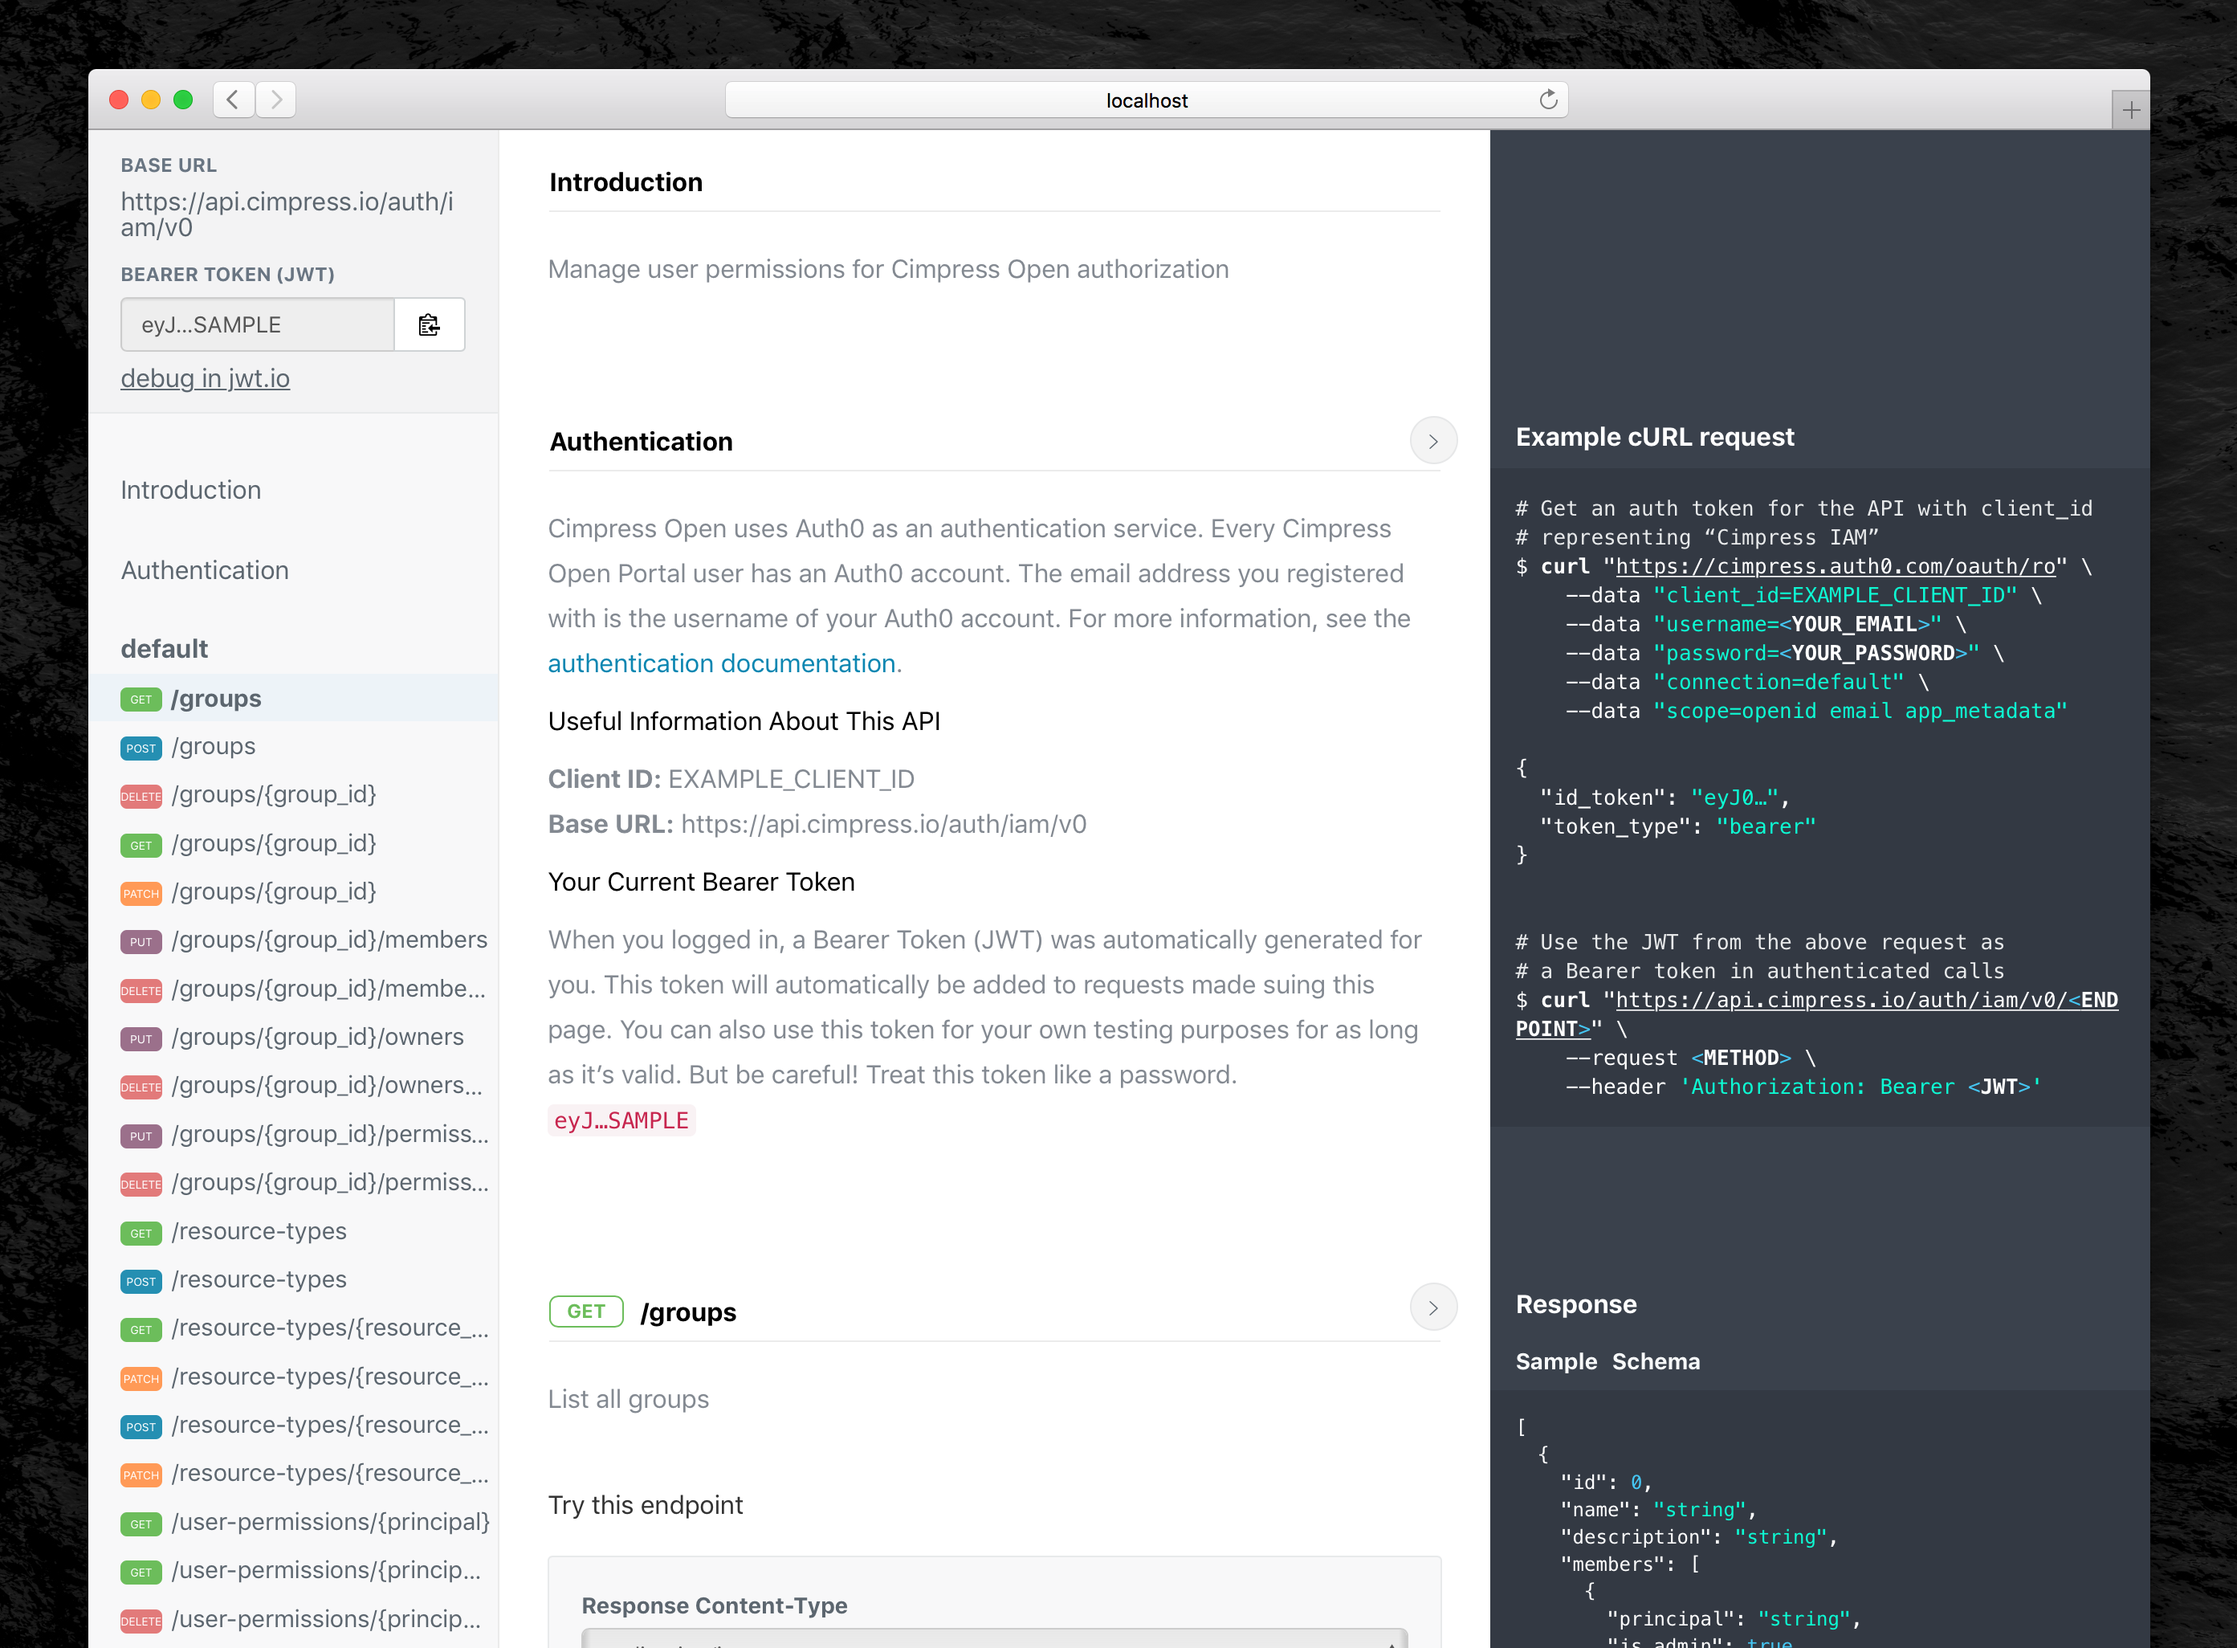
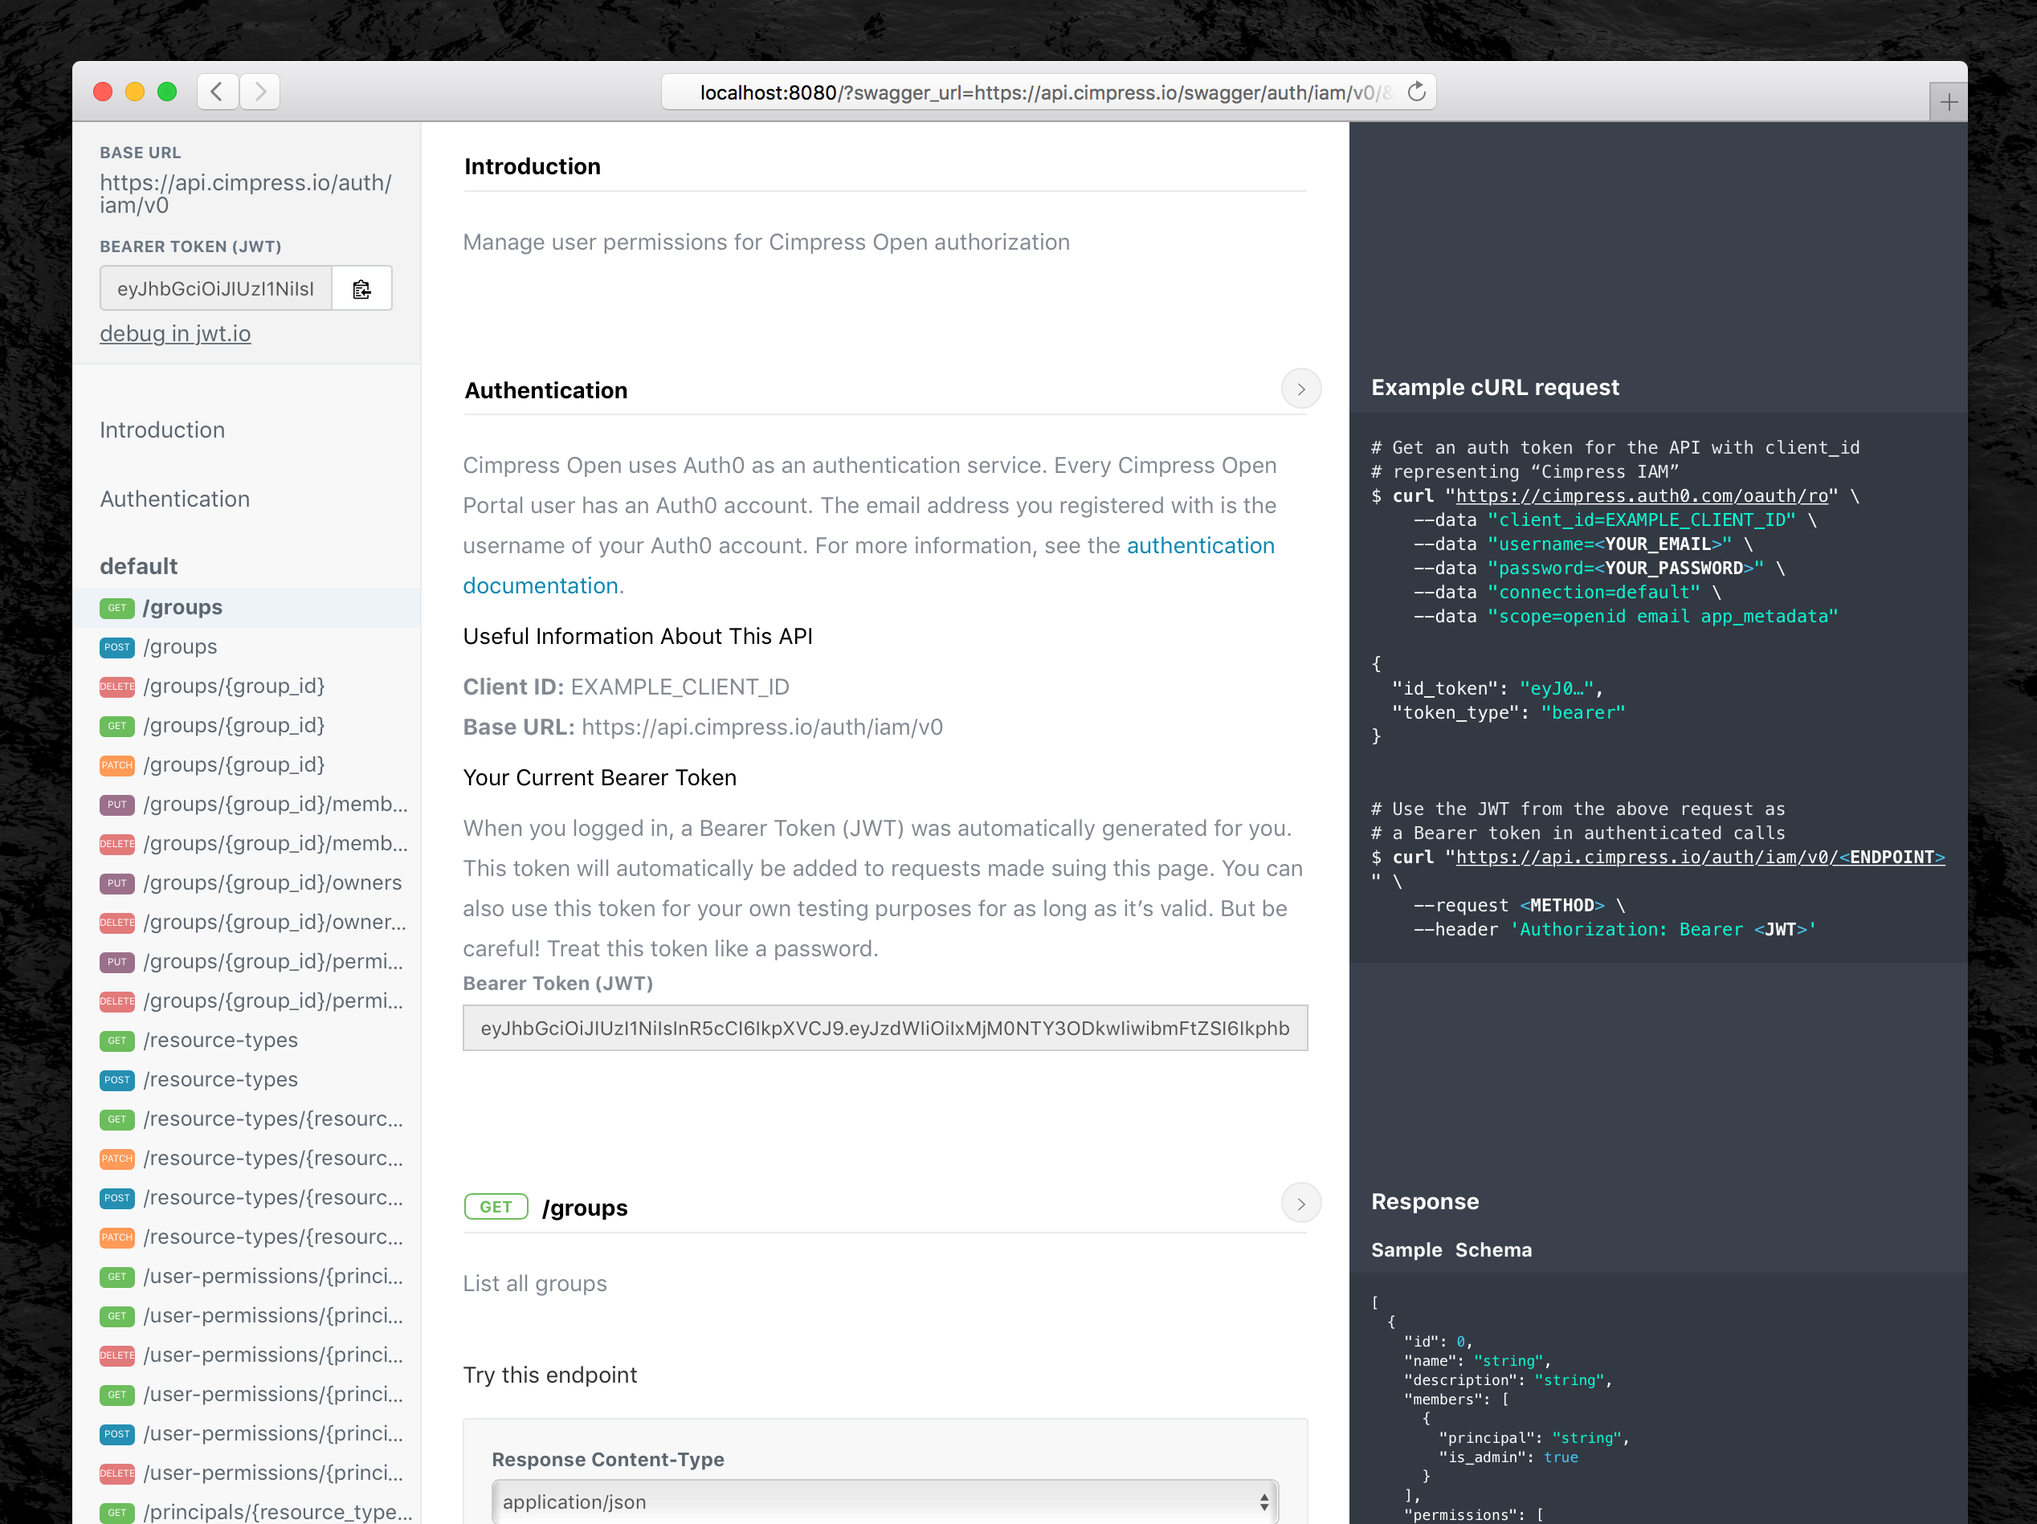
!fixup

diff --git a/src/main/html/index.html b/src/main/html/index.html
@@ -1,8 +1,9 @@
 <!DOCTYPE html>
 <html>
 <head>
-  <title>API Reference</title>
+  <meta charset="UTF-8">
   <meta name="viewport" content="width=device-width, initial-scale=1.0">
+  <title>API Reference</title>
   <!--[if lt IE 9]>
     <script src="http://html5shim.googlecode.com/svn/trunk/html5.js" async></script><![endif]-->
   <!--style type="text/css"></style-->
@@ -14,9 +15,9 @@
   <!-- Icons -->
   <svg class="hidden" version="1.1" xmlns="http://www.w3.org/2000/svg" xmlns:xlink="http://www.w3.org/1999/xlink">
     <defs>
-      <symbol ng-repeat="glyph in glyphs" id="icon-copy" mi-view-box="0 0 1024 1024" viewBox="0 0 1024 1024">
+      <symbol id="icon-copy" mi-view-box="0 0 1024 1024" viewBox="0 0 1024 1024">
         <title>copy</title>
-        <path ng-repeat="path in glyph.paths" class="path0" mi-d="M640 256v-256h-448l-192 192v576h384v256h640v-768h-384zM192 90.51v101.49h-101.49l101.49-101.49zM64 704v-448h192v-192h320v192l-192 192v256h-320zM576 346.51v101.49h-101.49l101.49-101.49zM960 960h-512v-448h192v-192h320v640z" mi-fill="" mi-opacity="" d="M640 256v-256h-448l-192 192v576h384v256h640v-768h-384zM192 90.51v101.49h-101.49l101.49-101.49zM64 704v-448h192v-192h320v192l-192 192v256h-320zM576 346.51v101.49h-101.49l101.49-101.49zM960 960h-512v-448h192v-192h320v640z"></path>
+        <path class="path0" d="M640 256v-256h-448l-192 192v576h384v256h640v-768h-384zM192 90.51v101.49h-101.49l101.49-101.49zM64 704v-448h192v-192h320v192l-192 192v256h-320zM576 346.51v101.49h-101.49l101.49-101.49zM960 960h-512v-448h192v-192h320v640z"></path>
       </symbol>
     </defs>
   </svg>
@@ -74,7 +75,7 @@
       if (url && url.length > 1) {
         url = decodeURIComponent(url[1]);
       } else {
-        url = "http://petstore.swagger.io/v2/swagger.json";
+        url = "petstore.json";
       }
       window.swaggerUrl = url;
       // HACK 2016-06-23 @harsingh @theopak
@@ -82,6 +83,7 @@
         var result = window.location.search.match(new RegExp('(\\?|&)' + param + '(\\[\\])?=([^&]*)'));
         return result && result[3] ? decodeURIComponent(result[3]) : null;
       }
+
       // HACK 2016-06-24 @theopak
       // (NG-4455) provide a URL parameter called `interfaceBaseUrl` in order to change all scroll anchors in this
       // swagger-ui instance to reference an arbitrary base url instead of the current page URL. For example,

diff --git a/src/main/javascript/view/HeaderView.js b/src/main/javascript/view/HeaderView.js
@@ -13,7 +13,7 @@ SwaggerUi.Views.HeaderView = Backbone.View.extend({
 
   showPetStore: function(){
     this.trigger('update-swagger-ui', {
-      url:'http://petstore.swagger.io/v2/swagger.json'
+      url: 'petstore.json'
     });
   },
 

diff --git a/src/main/html/css/api-explorer.css b/src/main/html/css/api-explorer.css
@@ -1462,7 +1462,7 @@ body {
 }
 
 #api2-explorer code.json {
-    font-size: 12px
+    font-size: 0.6875rem;
 }
 
 #api2-explorer a.toggle-samples {
